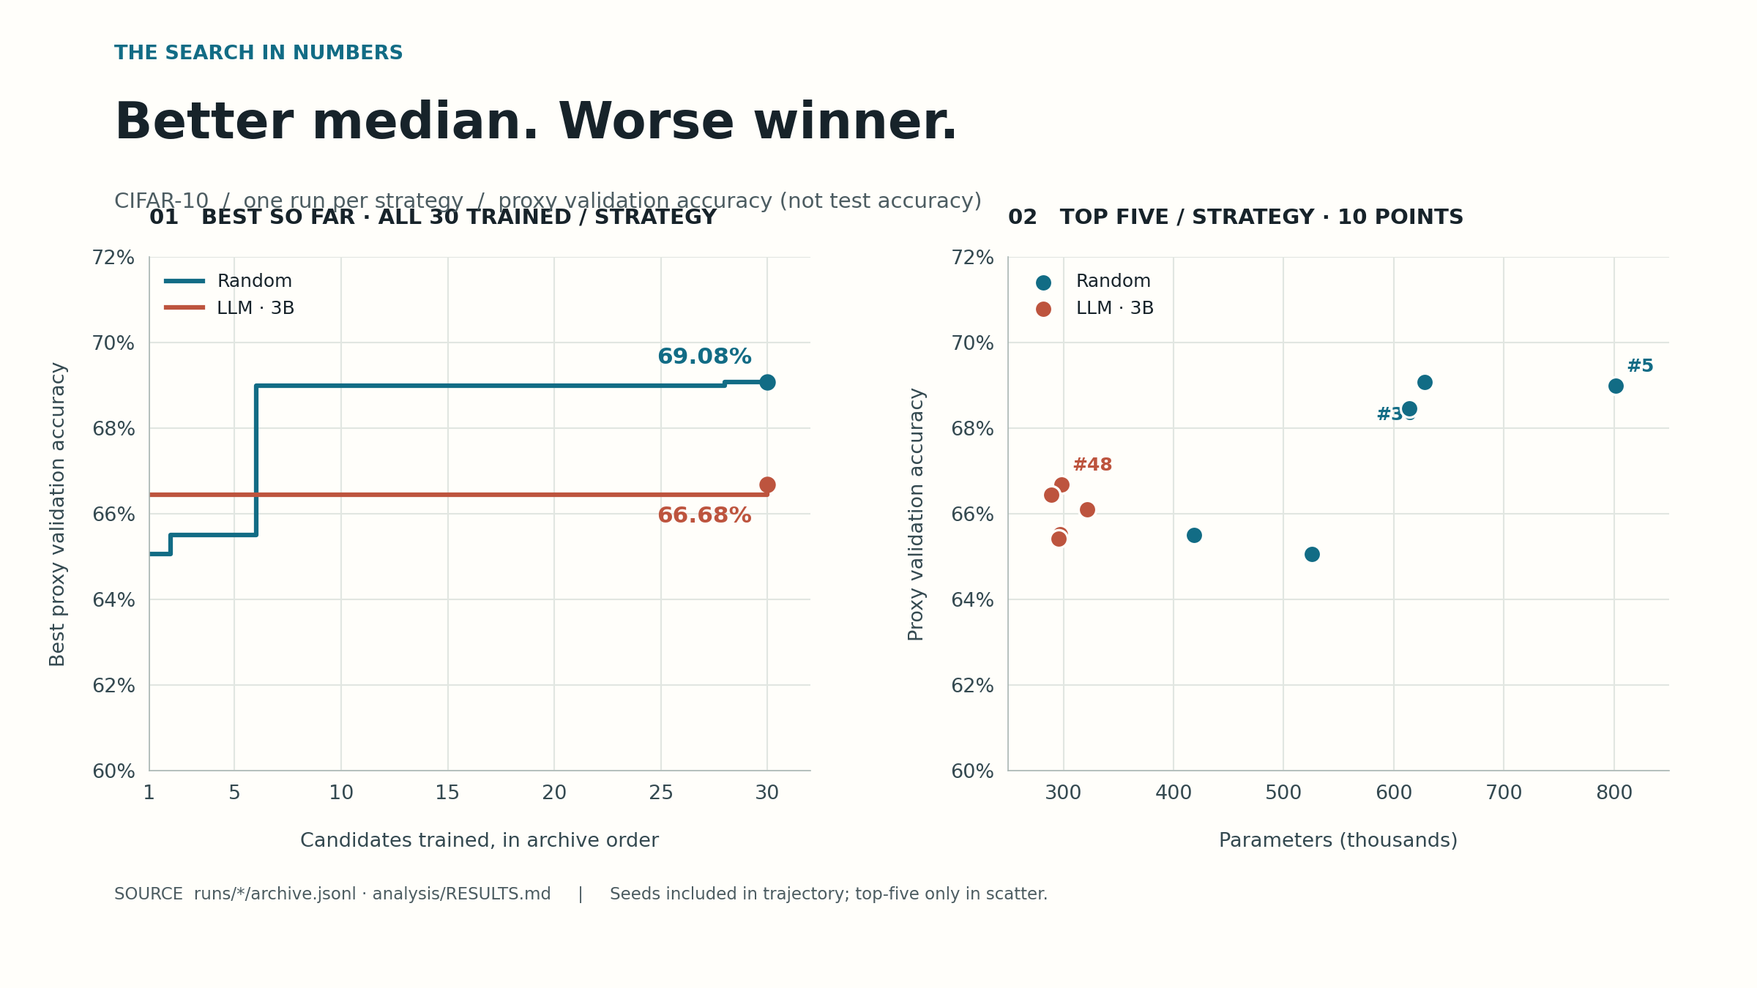
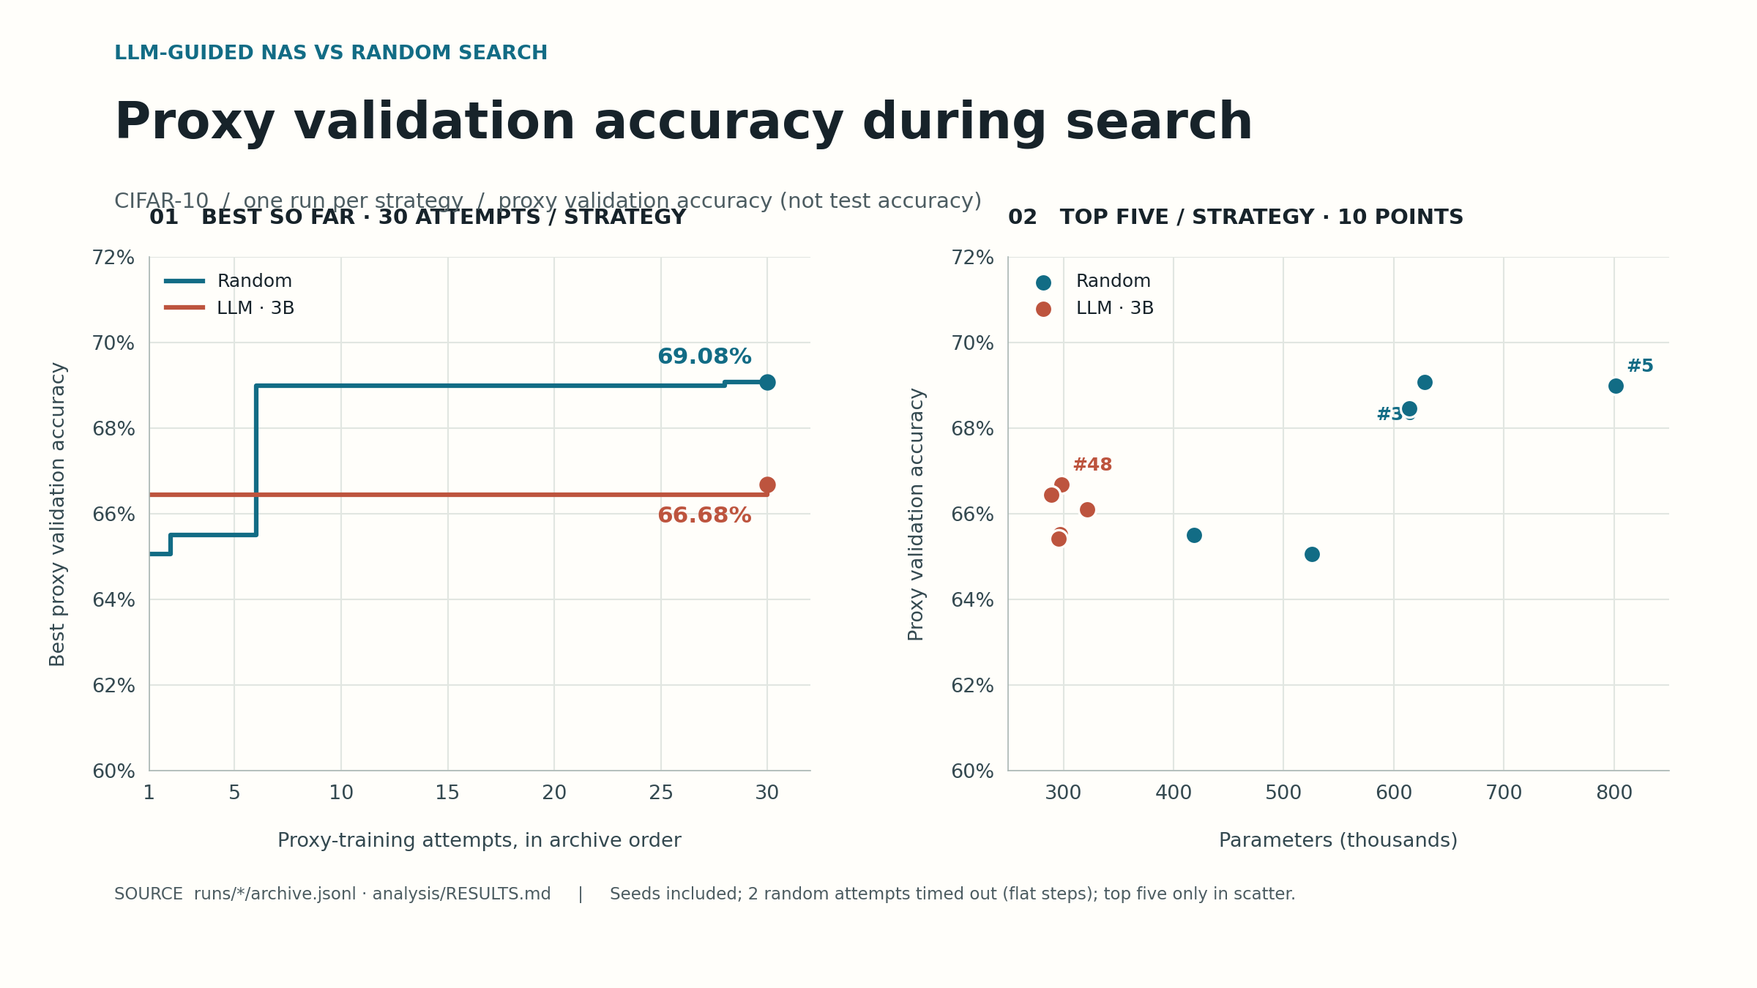
Correct PLE and NAS page claims; remove slogan copy

diff --git a/llm-nas/index.html b/llm-nas/index.html
@@ -7,7 +7,7 @@
   <meta name="description" content="A data-backed field report: local LLM-guided neural architecture search versus random search on CIFAR-10.">
   <link rel="canonical" href="https://avinashistoocool.github.io/llm-nas/">
   <meta property="og:title" content="LLM NAS | Random search found the better model">
-  <meta property="og:description" content="One run, 60 trained candidates, and an honest comparison of local LLM-guided NAS with random search.">
+  <meta property="og:description" content="One recorded run comparing local LLM-guided architecture proposals with random search on CIFAR-10.">
   <title>LLM NAS | Random search found the better model</title>
   <link rel="stylesheet" href="style.css">
   <script src="explorer.js" defer></script>
@@ -21,22 +21,22 @@
   <main id="main">
     <section class="hero wrap" aria-labelledby="headline">
       <div class="eyebrow">EXPERIMENT 01 <span>·</span> CIFAR-10 <span>·</span> 12 NOV 2026</div>
-      <h1 id="headline">A model designed models.<br><em>Random search won.</em></h1>
-      <p class="lede">A local Qwen2.5-Coder 3B proposed PyTorch architectures; random sampling was the baseline. After equal numbers of trained candidates, the best random finalist scored <strong>92.72%</strong> on the test set versus <strong>89.34%</strong> for the best LLM finalist.</p>
+      <h1 id="headline">LLM-guided architecture search<br><em>compared with random search</em></h1>
+      <p class="lede">A local Qwen2.5-Coder 3B proposed PyTorch architectures; random sampling was the baseline. With 30 proxy-training attempts per strategy, the best random finalist scored <strong>92.72%</strong> on the test set versus <strong>89.34%</strong> for the best LLM finalist.</p>
       <p class="caveat">One run per strategy · CIFAR-10 · 20-epoch finalist training · not evidence that random search always wins.</p>
       <div class="hero-links"><a class="button" href="#results">See the measurements ↓</a><a class="text-link" href="https://github.com/Avinashistoocool/llm-nas/blob/master/analysis/RESULTS.md">Read original results ↗</a></div>
     </section>
 
     <section id="results" class="results wrap" aria-labelledby="results-title">
-      <div class="section-heading"><span class="overline">01 / THE EVIDENCE</span><h2 id="results-title">The search, in one figure.</h2><p>Left: best proxy validation accuracy as each candidate finished training (all 30 per strategy). Right: the ten report-listed top-five candidates, plotted against parameter count. Neither plot shows test accuracy; finalist test scores appear below.</p></div>
+      <div class="section-heading"><span class="overline">01 / THE EVIDENCE</span><h2 id="results-title">Search progress and top candidates</h2><p>Left: best proxy validation accuracy after each of 30 proxy-training attempts per strategy. The random run has 2 timed-out attempts, shown as flat steps. Right: the ten report-listed top-five candidates, plotted against parameter count. Neither plot shows test accuracy; finalist test scores appear below.</p></div>
       <figure class="main-figure">
-        <img src="figures/llm-nas-results.svg" width="1600" height="900" alt="Two data plots. Best proxy validation accuracy across 30 trained candidates per strategy ends at 69.08% for random and 66.68% for LLM. A scatter of ten reported top-five candidates shows random models generally larger; the highest random proxy score is 69.08%." fetchpriority="high">
+        <img src="figures/llm-nas-results.svg" width="1600" height="900" alt="Two data plots. Best proxy validation accuracy across 30 proxy-training attempts per strategy ends at 69.08% for random and 66.68% for LLM. A scatter of ten reported top-five candidates shows random models generally larger; the highest random proxy score is 69.08%." fetchpriority="high">
         <figcaption><span>Figure 01 · Derived from <code>runs/llm_qwen3b/archive.jsonl</code>, <code>runs/random/archive.jsonl</code> and <code>analysis/RESULTS.md</code>. Hand-designed LLM seeds are included in the trajectory.</span><a href="figures/llm-nas-results.png" download="LLM-NAS-results.png">Download 2400 × 1350 PNG ↗</a></figcaption>
       </figure>
       <div class="score-grid" aria-label="Best finalist test accuracy after 20 epochs">
         <div class="score random"><span class="overline">RANDOM · #5</span><strong>92.72%</strong><span>test accuracy · 801,326 parameters</span></div>
         <div class="score llm"><span class="overline">LLM · #48</span><strong>89.34%</strong><span>test accuracy · 298,026 parameters</span></div>
-        <p class="score-note"><strong>+3.38 percentage points</strong> for the random finalist. The test set was used only for finalists, not to guide the search. These are different-sized models; the result does not isolate search strategy from model size.</p>
+        <p class="score-note"><strong>+3.38 percentage points</strong> for the random finalist. Search used validation accuracy. Test accuracy was evaluated once after training for each of the four finalists. These are different-sized models; the result does not isolate search strategy from model size.</p>
       </div>
     </section>
 
@@ -44,23 +44,23 @@
       <div class="wrap">
         <div class="section-heading"><span class="overline">02 / OPEN THE NOTEBOOK</span><h2>Which architectures made the cut?</h2><p>All ten top-five candidates named in the original report. Sort the table to compare proxy validation accuracy and size; only four finalists have reported test results. Proxy and test accuracy are <strong>different evaluations</strong>.</p></div>
         <div class="table-scroll"><table id="candidate-table"><caption>Top five reported candidates per strategy; proxy validation accuracy, parameter count and finalist test accuracy</caption><thead><tr><th scope="col"><button data-sort="run" type="button">Strategy <span aria-hidden="true">↕</span></button></th><th scope="col"><button data-sort="id" type="button">ID <span aria-hidden="true">↕</span></button></th><th scope="col"><button data-sort="proxy" type="button">Proxy val <span aria-hidden="true">↓</span></button></th><th scope="col"><button data-sort="params" type="button">Parameters <span aria-hidden="true">↕</span></button></th><th scope="col">Origin / idea</th><th scope="col"><button data-sort="test" type="button">Test · 20 epochs <span aria-hidden="true">↕</span></button></th></tr></thead><tbody></tbody></table></div>
-        <p class="source-note">The plot shows all 60 trained candidates on the left, but the table and right-hand plot show only the ten published top-five entries. Source: <a href="https://github.com/Avinashistoocool/llm-nas/blob/master/analysis/RESULTS.md">analysis/RESULTS.md ↗</a>. <a href="search_progress.png">Original lower-resolution report plot ↗</a></p>
+        <p class="source-note">The left plot shows all 60 proxy-training attempts, but the table and right-hand plot show only the ten published top-five entries. Source: <a href="https://github.com/Avinashistoocool/llm-nas/blob/master/analysis/RESULTS.md">analysis/RESULTS.md ↗</a>. <a href="search_progress.png">Original lower-resolution report plot ↗</a></p>
       </div>
     </section>
 
     <section id="method" class="method wrap">
-      <div class="section-heading"><span class="overline">03 / HOW IT WORKED</span><h2>Propose. Check. Train. Repeat.</h2><p>The search changes only model architecture, not the training recipe. The LLM runs on CPU while the laptop GPU trains candidates.</p></div>
+      <div class="section-heading"><span class="overline">03 / HOW IT WORKED</span><h2>Method</h2><p>The search changes only model architecture, not the training recipe. The LLM runs on CPU while the laptop GPU trains candidates.</p></div>
       <div class="method-grid">
-        <article><span>01 / PROPOSE</span><h3>Code, not prompts as predictions.</h3><p>Qwen2.5-Coder 3B mutates or crosses over selected PyTorch CNNs. Random search samples a hand-designed architecture space.</p></article>
-        <article><span>02 / VALIDATE</span><h3>Reject what cannot run.</h3><p>Static checks and a CPU dry run enforce shape and compute limits (≤1M parameters and ≤600 MFLOPs). The AST checks are not a security boundary.</p></article>
-        <article><span>03 / MEASURE</span><h3>Keep training fixed.</h3><p>A 5-epoch proxy trains on 10k images and scores on held-out validation data. The finalists retrain for 20 epochs on 45k images before the test evaluation.</p></article>
+        <article><span>01 / PROPOSE</span><h3>Proposal</h3><p>Qwen2.5-Coder 3B mutates or crosses over selected PyTorch CNNs. Random search samples a hand-designed architecture space.</p></article>
+        <article><span>02 / VALIDATE</span><h3>Validation</h3><p>Static checks and a CPU dry run enforce shape and compute limits (≤1M parameters and ≤600 MFLOPs). The AST checks are not a security boundary.</p></article>
+        <article><span>03 / MEASURE</span><h3>Training</h3><p>A 5-epoch proxy trains on 10k images and scores on held-out validation data. The finalists retrain for 20 epochs on 45k images before the test evaluation.</p></article>
       </div>
       <div class="findings">
-        <div><span class="overline">SEARCH SUMMARY</span><h3>Higher median, lower ceiling.</h3><p>The LLM's median non-seed proxy candidate reached <strong>59.78%</strong> against <strong>56.92%</strong> for random; the best proxy candidates reached <strong>66.68%</strong> and <strong>69.08%</strong>, respectively. Each strategy trained 30 candidates (46 LLM proposals, 33 random proposals; seeds excluded from proposal counts).</p></div>
-        <div><span class="overline">WHAT THIS CANNOT SAY</span><h3>One run is a starting point.</h3><p>The LLM repeatedly proposed depthwise-separable convolutions close to its seeds; its run logged 9 duplicates and 8 errors. Random explored larger inverted-residual networks. A noisy proxy, unequal model sizes and no repeated seeds limit any broader conclusion. Larger LLMs and ablations remain future work, not reported experiments.</p></div>
+        <div><span class="overline">SEARCH SUMMARY</span><h3>Proxy search summary</h3><p>The LLM's median non-seed proxy candidate reached <strong>59.78%</strong> against <strong>56.75%</strong> for random; the best proxy candidates reached <strong>66.68%</strong> and <strong>69.08%</strong>, respectively. Each strategy had 30 proxy-training attempts: 30 completed for the LLM and 28 for random search. Proposal counts exclude the 3 LLM seeds (46 LLM, 33 random). The two proposal spaces differ, and wall-clock time differed.</p></div>
+        <div><span class="overline">WHAT THIS CANNOT SAY</span><h3>Limitations</h3><p>The LLM repeatedly proposed depthwise-separable convolutions close to its seeds; its run logged 9 duplicates and 8 errors. Random explored larger inverted-residual networks. A noisy proxy, unequal model sizes and no repeated seeds limit any broader conclusion. Larger LLMs and ablations remain future work, not reported experiments.</p></div>
       </div>
     </section>
-    <section class="closing"><div class="wrap"><span class="overline">READ THE EXPERIMENT</span><h2>The result is the finding.</h2><p>See the training recipe, archived code and full report in the public repository. This page is a static account, not a live training demo.</p><a class="button" href="https://github.com/Avinashistoocool/llm-nas">Browse the source ↗</a><a class="text-link" href="https://github.com/Avinashistoocool/llm-nas/blob/master/README.md">Setup and limitations ↗</a></div></section>
+    <section class="closing"><div class="wrap"><span class="overline">READ THE EXPERIMENT</span><h2>Source and report</h2><p>See the source code, training recipe, published figures and report in the public repository. The run archives and checkpoints are not public. This page is a static account, not a live training demo.</p><a class="button" href="https://github.com/Avinashistoocool/llm-nas">Browse the source ↗</a><a class="text-link" href="https://github.com/Avinashistoocool/llm-nas/blob/master/README.md">Setup and limitations ↗</a></div></section>
   </main>
   <footer class="wrap"><span>LLM NAS / SINGLE-RUN FIELD REPORT</span><a href="https://avinashistoocool.github.io/">← Back to Avinash</a></footer>
 </body>

diff --git a/ple-lab/index.html b/ple-lab/index.html
@@ -33,12 +33,12 @@
         <h1 id="title">The vocabulary<br>doesn’t have to live <em>on the GPU.</em></h1>
         <p class="hero-lede">Per-Layer Embeddings give each transformer layer a different view of a token. PLE-Lab builds the model, moves its table off-device, and measures what the layers actually learned.</p>
         <div class="hero-actions"><a class="button button-primary" href="explorer.html">Try the token explorer <span aria-hidden="true">↗</span></a><a class="button button-quiet" href="#measurements">Explore the evidence <span aria-hidden="true">↗</span></a><a class="button button-quiet" href="https://github.com/Avinashistoocool/PLE-Lab">Browse the code <span aria-hidden="true">↗</span></a></div>
-        <p class="hero-footnote">Inspired by the per-layer embedding idea in Gemma 3n · independent small-scale reproduction, not a Gemma 3n benchmark.</p>
+        <p class="hero-footnote">Inspired by the per-layer embedding idea in Gemma 3n · independent small-scale reimplementation without Gemma 3n's AltUp streams; not a Gemma 3n benchmark.</p>
       </div>
       <div class="hero-visual" aria-hidden="true">
         <div class="diagram-caption">ONE TOKEN <span>→</span> SIX DESTINATIONS</div>
         <div class="visual-row"><span class="token-glyph">t<sub>id</sub></span><span class="line"></span><span class="vector-stack"><span style="--i:0">L0 <b></b></span><span style="--i:1">L1 <b></b></span><span style="--i:2">L2 <b></b></span><span style="--i:3">L3 <b></b></span><span style="--i:4">L4 <b></b></span><span style="--i:5">L5 <b></b></span></span></div>
-        <p>One table row · 6 × 64 values<br>Only the selected row must move.</p>
+        <p>One table row · 6 × 64 values<br>Each token in a forward pass needs its own row, including newly generated tokens.</p>
       </div>
       <div class="hero-bottom"><span>PLE-LAB / FIELD NOTES</span><a href="#mechanism">SCROLL TO FOLLOW THE TOKEN ↓</a><span>RTX 4050 LAPTOP · TINYSTORIES</span></div>
     </section>
@@ -47,7 +47,7 @@
       <div class="section-top"><span class="section-number">01 / THE MECHANISM</span><span>MODEL / OFFLOAD / INSPECTION</span></div>
       <div class="intro-grid">
         <div><p class="kicker">THE DESIGN QUESTION</p><h2>Large table.<br><i>Small transfer.</i></h2></div>
-        <div class="intro-text"><p>A normal embedding gives a token one vector. Here a token has <strong>six independent 64-dimensional slices</strong>—one for each transformer block. The token IDs are known before the forward pass, so a table row can be fetched from CPU RAM or a memory-mapped file instead of keeping the entire table in GPU memory.</p><p>For <code>ple-small</code>, one fp16 row is <strong>768 bytes</strong>; the whole fp16 table is <strong>38.6 MB</strong>. Offloading is a memory strategy, not free acceleration: the latency measurements below show the cost.</p></div>
+        <div class="intro-text"><p>A normal embedding gives a token one vector. Here a token has <strong>six separately indexed, jointly trained 64-dimensional slices</strong>—one for each transformer block. The token IDs of a forward pass are known before that pass runs, so their rows can be fetched from CPU RAM or a memory-mapped file instead of keeping the entire table in GPU memory.</p><p>For <code>ple-small</code>, one fp16 row is <strong>768 bytes</strong>; the whole fp16 table is <strong>38.6 MB</strong>. Offloading is a memory strategy, not free acceleration: the latency measurements below show the cost.</p></div>
       </div>
       <div class="architecture">
         <div class="architecture-header"><div><p class="kicker">THE PATH THROUGH ONE BLOCK</p><h3>Trace a slice</h3></div><p>Pick a layer to inspect its measured single-layer ablation.</p></div>
@@ -77,9 +77,9 @@
         <div class="measure-header"><div><p class="kicker">INTERACTIVE DATA PLATE</p><h2>What changed<br><i>when we measured?</i></h2></div><p>Four views of the recorded runs. Change the view or select a mark to read its source and context; every number comes from the linked project results.</p></div>
         <div class="chart-shell">
           <div class="chart-controls" role="group" aria-label="Select measurement"><button type="button" class="active" data-chart="training" aria-pressed="true">01 / Training</button><button type="button" data-chart="ablation" aria-pressed="false">02 / Ablation</button><button type="button" data-chart="cache" aria-pressed="false">03 / Cache</button><button type="button" data-chart="latency" aria-pressed="false">04 / Latency</button></div>
-          <div class="chart-content"><div class="chart-text"><span class="chart-index" id="chart-index">FIGURE 01 / 04</span><h3 id="chart-title">A slight loss gap. Not a win.</h3><p id="chart-description">Same dense configuration and 24.6M training tokens, one seed each. The 0.009 difference at the end is within single-seed noise.</p><div id="chart-key" class="chart-key"></div><p class="chart-selection" id="chart-selection" role="status">Select a plotted point to inspect it.</p><a id="chart-source" class="source-link" href="https://github.com/Avinashistoocool/PLE-Lab/blob/master/runs/summary.json">VIEW SOURCE DATA ↗</a></div><div class="chart-plot"><svg id="chart" viewBox="0 0 640 360" role="img" aria-labelledby="chart-svg-title chart-svg-desc"><title id="chart-svg-title">Training validation loss</title><desc id="chart-svg-desc">Interactive chart showing the measured baseline and PLE training validation loss.</desc></svg><p class="chart-hint">TAP, CLICK OR TAB TO A MARK FOR ITS EXACT VALUE</p></div></div>
+          <div class="chart-content"><div class="chart-text"><span class="chart-index" id="chart-index">FIGURE 01 / 04</span><h3 id="chart-title">A slight loss gap. Not a win.</h3><p id="chart-description">Same dense configuration and 24.6M sampled training-token positions, one seed each. The PLE model has more parameters and took longer to train. A 0.009 nats/token gap from one seed cannot establish an improvement.</p><div id="chart-key" class="chart-key"></div><p class="chart-selection" id="chart-selection" role="status">Select a plotted point to inspect it.</p><a id="chart-source" class="source-link" href="https://github.com/Avinashistoocool/PLE-Lab/blob/master/runs/summary.json">VIEW SOURCE DATA ↗</a></div><div class="chart-plot"><svg id="chart" viewBox="0 0 640 360" role="img" aria-labelledby="chart-svg-title chart-svg-desc"><title id="chart-svg-title">Training validation loss</title><desc id="chart-svg-desc">Interactive chart showing the measured baseline and PLE training validation loss.</desc></svg><p class="chart-hint">TAP, CLICK OR TAB TO A MARK FOR ITS EXACT VALUE</p></div></div>
         </div>
-        <div class="stat-row"><div><span>+0.621 <small>± 0.008</small></span><p>nats when <em>all</em> PLE token inputs are zeroed · 25,500 predictions</p></div><div><span>0.872</span><p>Spearman correlation: PLE row norm vs. log frequency, for seen tokens</p></div><div><span>95.5%</span><p>prefill token hits with a 5% static-top-k cache on synthetic-big</p></div></div>
+        <div class="stat-row"><div><span>+0.621 <small>± 0.008 SE</small></span><p>nats/token when the PLE token-table part is zeroed in all layers (context part active) · 25,500 predictions · token-level standard error, not run-to-run</p></div><div><span>0.872</span><p>Spearman correlation: PLE row norm vs. log frequency, for seen tokens</p></div><div><span>95.5%</span><p>prefill token hits with a 5% static-top-k cache on synthetic-big</p></div></div>
         <p class="data-caveat">Measurements: TinyStories, RTX 4050 Laptop GPU (6 GB), Windows/WDDM; one training seed. Synthetic-big is a generated table benchmark, <strong>not</strong> a trained language model. GPU throughput is noisy on this shared laptop (about ±30% between runs); offload results use a warm OS page cache. <a href="https://github.com/Avinashistoocool/PLE-Lab/blob/master/docs/OFFLOAD.md">Benchmark methods ↗</a></p>
       </div>
     </section>

diff --git a/ple-lab/app.js b/ple-lab/app.js
@@ -27,7 +27,7 @@
   const modes = {
     training: {
       title:"A slight loss gap. Not a win.",
-      description:"Same dense configuration and 24.6M training tokens, one seed each. The 0.009 difference at the end is within single-seed noise.",
+      description:"Same dense configuration and 24.6M sampled training-token positions, one seed each. The PLE model has more parameters and took longer to train. A 0.009 nats/token gap from one seed cannot establish an improvement.",
       source:"https://github.com/Avinashistoocool/PLE-Lab#results-rtx-4050-laptop-6-gb",
       legend:[["Baseline", "#43948a"], ["PLE, 64 dimensions", "#df603d"]],
       desc:"Validation loss from steps 250–3000 for baseline-small and ple-small, one training seed each."

diff --git a/llm-nas/figures/build_figure.py b/llm-nas/figures/build_figure.py
@@ -42,8 +42,8 @@ plt.rcParams.update({
 })
 fig, (progress, scatter) = plt.subplots(1, 2, figsize=(16, 9), gridspec_kw={"wspace": .30})
 fig.subplots_adjust(left=.085, right=.95, top=.74, bottom=.22)
-fig.text(.065, .94, "THE SEARCH IN NUMBERS", fontsize=13, fontweight="bold", color="#126c85")
-fig.text(.065, .86, "Better median. Worse winner.", fontsize=33, fontweight="bold")
+fig.text(.065, .94, "LLM-GUIDED NAS VS RANDOM SEARCH", fontsize=13, fontweight="bold", color="#126c85")
+fig.text(.065, .86, "Proxy validation accuracy during search", fontsize=33, fontweight="bold")
 fig.text(.065, .79, "CIFAR-10  /  one run per strategy  /  proxy validation accuracy (not test accuracy)", fontsize=14, color="#4c5c61")
 
 for label, entries in records.items():
@@ -76,17 +76,17 @@ for ax in (progress, scatter):
     ax.yaxis.set_major_formatter(FuncFormatter(lambda value, _: f"{value:.0f}%"))
     ax.tick_params(length=0, pad=9)
     ax.legend(loc="upper left", frameon=False, fontsize=12)
-progress.set_title("01   BEST SO FAR · ALL 30 TRAINED / STRATEGY", fontsize=14, weight="bold", loc="left", pad=22)
+progress.set_title("01   BEST SO FAR · 30 ATTEMPTS / STRATEGY", fontsize=14, weight="bold", loc="left", pad=22)
 progress.set_xlim(1, 32)
 progress.set_xticks([1, 5, 10, 15, 20, 25, 30])
-progress.set_xlabel("Candidates trained, in archive order", labelpad=19)
+progress.set_xlabel("Proxy-training attempts, in archive order", labelpad=19)
 progress.set_ylabel("Best proxy validation accuracy", labelpad=15)
 scatter.set_title("02   TOP FIVE / STRATEGY · 10 POINTS", fontsize=14, weight="bold", loc="left", pad=22)
 scatter.set_xlim(250, 850)
 scatter.set_xticks([300, 400, 500, 600, 700, 800])
 scatter.set_xlabel("Parameters (thousands)", labelpad=19)
 scatter.set_ylabel("Proxy validation accuracy", labelpad=15)
-fig.text(.065, .09, "SOURCE  runs/*/archive.jsonl · analysis/RESULTS.md     |     Seeds included in trajectory; top-five only in scatter.", fontsize=11, color="#4c5c61")
+fig.text(.065, .09, "SOURCE  runs/*/archive.jsonl · analysis/RESULTS.md     |     Seeds included; 2 random attempts timed out (flat steps); top five only in scatter.", fontsize=11, color="#4c5c61")
 fig.savefig(HERE / "llm-nas-results.png", dpi=150)
 svg = HERE / "llm-nas-results.svg"
 fig.savefig(svg)
